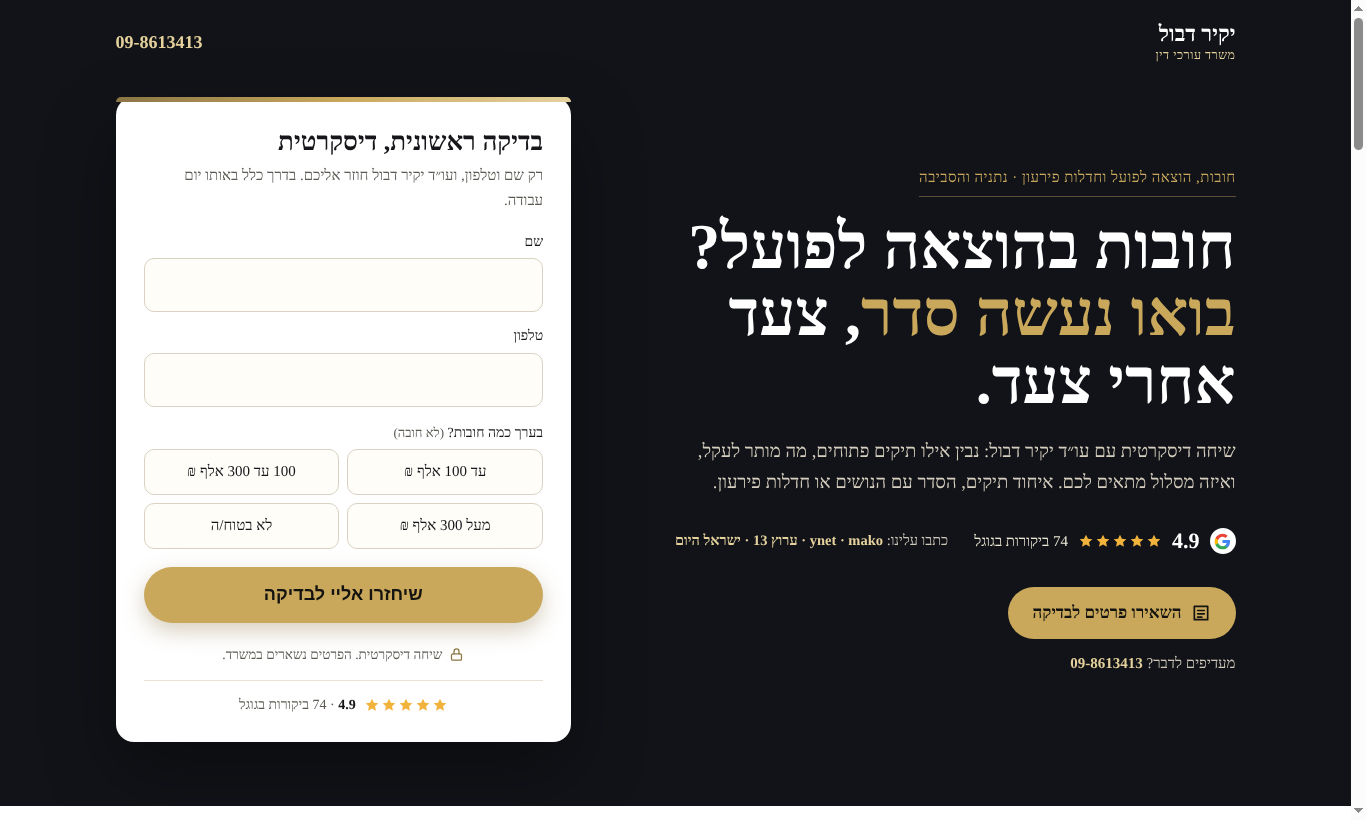
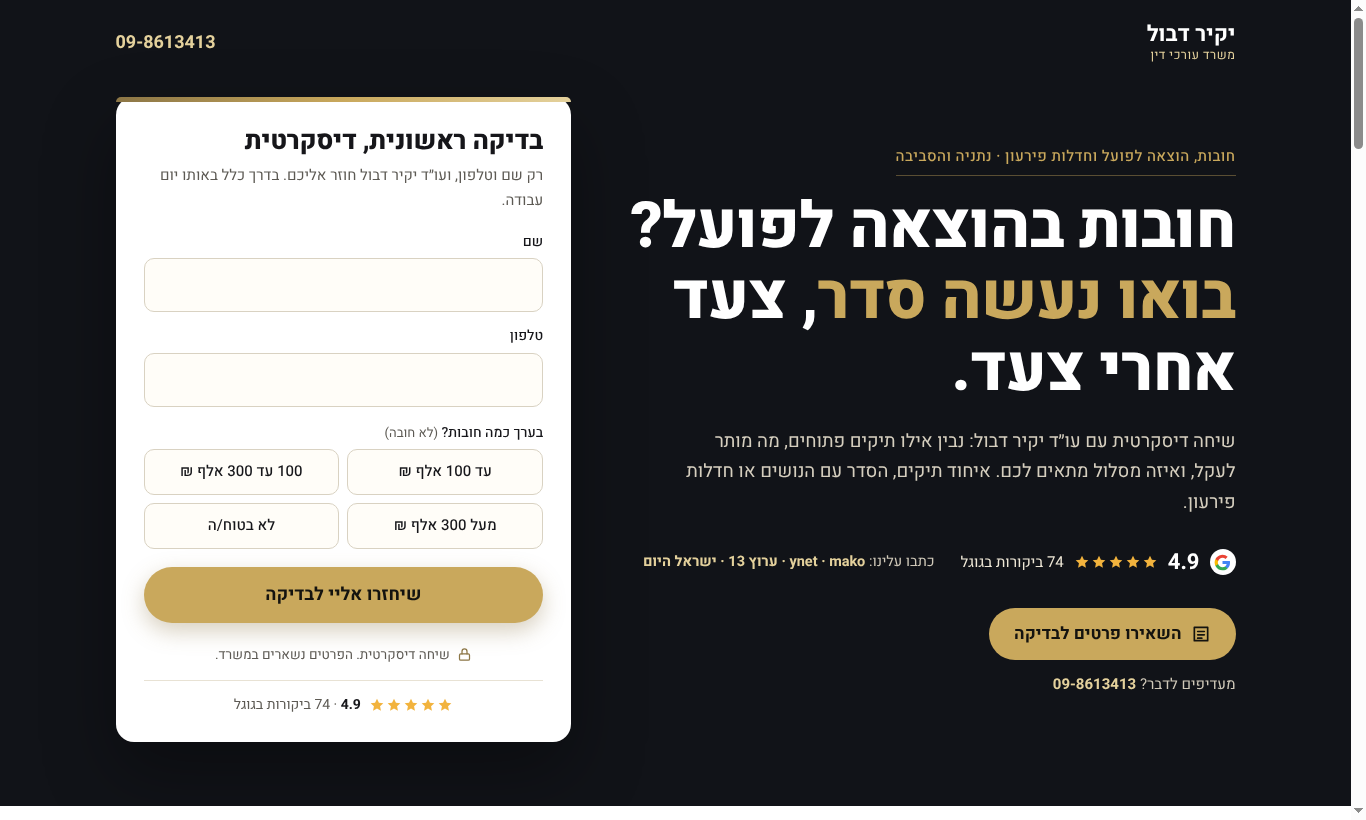
lp-debt v2 sketch: Heebo font like the Lovable site
Claude-Session: https://claude.ai/code/session_01R2PTbBSCdrkEqwtLk6qd2a

diff --git a/media/campaign/debt-2026-10/lp/v2/preview.html b/media/campaign/debt-2026-10/lp/v2/preview.html
@@ -1,12 +1,12 @@
-<!doctype html><html lang="he" dir="rtl"><head><meta charset="utf-8"><meta name="viewport" content="width=device-width,initial-scale=1"><title>lp-debt v2</title><style>body{margin:0}</style></head><body>
-<link rel="preconnect" href="https://fonts.gstatic.com" crossorigin><link rel="stylesheet" href="https://fonts.googleapis.com/css2?family=Frank+Ruhl+Libre:wght@500;700&display=swap">
+<!doctype html><html lang="he" dir="rtl"><head><meta charset="utf-8"><meta name="viewport" content="width=device-width,initial-scale=1"><title>lp-debt v2</title><style>body{margin:0}@font-face{font-family:'Heebo';font-weight:300;src:url('file:///tmp/claude-0/-home-claude/18c4b77b-4875-5419-b847-7a72812c5e0f/scratchpad/heebo/package/300Light/Heebo_300Light.ttf')}@font-face{font-family:'Heebo';font-weight:400;src:url('file:///tmp/claude-0/-home-claude/18c4b77b-4875-5419-b847-7a72812c5e0f/scratchpad/heebo/package/400Regular/Heebo_400Regular.ttf')}@font-face{font-family:'Heebo';font-weight:500;src:url('file:///tmp/claude-0/-home-claude/18c4b77b-4875-5419-b847-7a72812c5e0f/scratchpad/heebo/package/500Medium/Heebo_500Medium.ttf')}@font-face{font-family:'Heebo';font-weight:700;src:url('file:///tmp/claude-0/-home-claude/18c4b77b-4875-5419-b847-7a72812c5e0f/scratchpad/heebo/package/700Bold/Heebo_700Bold.ttf')}@font-face{font-family:'Heebo';font-weight:800;src:url('file:///tmp/claude-0/-home-claude/18c4b77b-4875-5419-b847-7a72812c5e0f/scratchpad/heebo/package/800ExtraBold/Heebo_800ExtraBold.ttf')}@font-face{font-family:'Heebo';font-weight:900;src:url('file:///tmp/claude-0/-home-claude/18c4b77b-4875-5419-b847-7a72812c5e0f/scratchpad/heebo/package/900Black/Heebo_900Black.ttf')}</style></head><body>
+<link rel="preconnect" href="https://fonts.gstatic.com" crossorigin><link rel="stylesheet" href="https://fonts.googleapis.com/css2?family=Heebo:wght@300;400;500;700;800;900&display=swap">
 <style>
 .dlp{--d:#111318;--d2:#1b1e26;--g:#c9a85c;--gd:#8c7646;--g1:#e4d19c;--g2:#f6efdd;--ink:#16161a;--mut:#5d5a54;--line:#e8e2d4;--paper:#fbfaf6;
- direction:rtl;color:var(--ink);background:var(--paper);font-size:17px;line-height:1.65;-webkit-font-smoothing:antialiased;overflow-x:clip}
+ direction:rtl;font-family:'Heebo',Arial,sans-serif;color:var(--ink);background:var(--paper);font-size:17px;line-height:1.65;-webkit-font-smoothing:antialiased;overflow-x:clip}
 .dlp *{box-sizing:border-box}
 .dlp h1,.dlp h2,.dlp h3,.dlp p,.dlp ul,.dlp ol{margin:0;padding:0}
 .dlp .w{max-width:1160px;margin:0 auto;padding-inline:20px}
-.dlp .serif{font-family:'Frank Ruhl Libre',Georgia,serif}
+.dlp .serif{font-family:'Heebo',Arial,sans-serif}
 .dlp a{color:inherit}
 .dlp .btn{display:inline-flex;align-items:center;justify-content:center;gap:9px;min-height:52px;padding:0 24px;border-radius:999px;font-weight:700;font-size:17px;text-decoration:none;border:1.5px solid transparent;cursor:pointer;transition:transform .15s,background .15s}
 .dlp .btn:hover{transform:translateY(-1px)}
@@ -20,11 +20,11 @@
 .dlp .hero:after{content:"";position:absolute;inset:0;background:linear-gradient(90deg,rgba(17,19,24,.55),rgba(17,19,24,.94) 62%);z-index:-1}
 .dlp .hero .w{display:grid;grid-template-columns:minmax(0,1.15fr) minmax(0,.85fr);gap:48px;align-items:center;padding-block:34px 64px}
 .dlp .top{display:flex;justify-content:space-between;align-items:center;padding-block:22px 0}
-.dlp .logo{font-family:'Frank Ruhl Libre',Georgia,serif;font-weight:700;font-size:22px;color:#fff;line-height:1.1;text-decoration:none}
+.dlp .logo{font-family:'Heebo',Arial,sans-serif;font-weight:700;font-size:22px;color:#fff;line-height:1.1;text-decoration:none}
 .dlp .logo small{display:block;font-family:inherit;font-weight:400;font-size:12.5px;color:var(--g1);letter-spacing:.04em;margin-top:3px}
 .dlp .top .tel{color:var(--g1);font-weight:700;text-decoration:none;direction:ltr;font-size:18px}
 .dlp .kick{display:inline-block;color:var(--g);font-weight:500;font-size:15px;letter-spacing:.03em;margin-bottom:16px;border-bottom:1px solid rgba(201,168,92,.4);padding-bottom:6px}
-.dlp h1{font-family:'Frank Ruhl Libre',Georgia,serif;font-weight:700;font-size:clamp(38px,5.4vw,64px);line-height:1.06;color:#fff;text-wrap:balance}
+.dlp h1{font-family:'Heebo',Arial,sans-serif;font-weight:700;font-size:clamp(38px,5.4vw,64px);line-height:1.06;color:#fff;text-wrap:balance}
 .dlp h1 em{font-style:normal;color:var(--g)}
 .dlp .sub{font-size:18.5px;color:#d6cfbf;max-width:560px;margin-top:20px;font-weight:300}
 .dlp .ctas{display:flex;flex-wrap:wrap;gap:12px;margin-top:28px}
@@ -34,7 +34,7 @@
 /* form */
 .dlp .fc{background:#fff;color:var(--ink);border-radius:18px;padding:30px 28px 26px;box-shadow:0 30px 70px rgba(0,0,0,.35);position:relative}
 .dlp .fc:before{content:"";position:absolute;inset:0 0 auto 0;height:5px;border-radius:18px 18px 0 0;background:linear-gradient(90deg,var(--gd),var(--g),var(--g1))}
-.dlp .fc h2{font-family:'Frank Ruhl Libre',Georgia,serif;font-size:26px;line-height:1.15;font-weight:700}
+.dlp .fc h2{font-family:'Heebo',Arial,sans-serif;font-size:26px;line-height:1.15;font-weight:700}
 .dlp .fc .fs{font-size:15px;color:var(--mut);margin:6px 0 18px}
 .dlp .fc label{display:block;font-size:14px;font-weight:500;margin:12px 0 5px}
 .dlp .fc input,.dlp .fc select,.dlp .fc textarea{width:100%;font:inherit;font-size:17px;padding:12px 14px;border:1.5px solid #d9d2c2;border-radius:10px;background:#fffdf8;color:var(--ink)}
@@ -49,30 +49,30 @@
 .dlp .fc .note{font-size:12.5px;color:var(--mut);margin-top:12px;line-height:1.5}
 .dlp .fc .msg{font-size:14px;color:#a3322a;margin-top:8px;min-height:1px}
 .dlp .fc .ok{text-align:center;padding:26px 6px}
-.dlp .fc .ok b{display:block;font-family:'Frank Ruhl Libre',Georgia,serif;font-size:26px;margin-bottom:8px}
+.dlp .fc .ok b{display:block;font-family:'Heebo',Arial,sans-serif;font-size:26px;margin-bottom:8px}
 .dlp .hp{position:absolute!important;left:-9999px!important}
 /* trust */
 .dlp .trust{background:var(--d2);color:#eee7d6;border-top:1px solid rgba(201,168,92,.25)}
 .dlp .trust .w{display:grid;grid-template-columns:repeat(4,minmax(0,1fr));gap:0}
 .dlp .trust div{padding:22px 18px;border-inline-start:1px solid rgba(201,168,92,.18)}
 .dlp .trust div:first-child{border-inline-start:0}
-.dlp .trust b{display:block;font-family:'Frank Ruhl Libre',Georgia,serif;font-size:26px;color:var(--g);line-height:1.1}
+.dlp .trust b{display:block;font-family:'Heebo',Arial,sans-serif;font-size:26px;color:var(--g);line-height:1.1}
 .dlp .trust span{font-size:14.5px;color:#cfc8b8}
 /* sections */
 .dlp section.s{padding-block:76px}
-.dlp .st{font-family:'Frank Ruhl Libre',Georgia,serif;font-size:clamp(30px,3.6vw,42px);line-height:1.12;font-weight:700;text-wrap:balance}
+.dlp .st{font-family:'Heebo',Arial,sans-serif;font-size:clamp(30px,3.6vw,42px);line-height:1.12;font-weight:700;text-wrap:balance}
 .dlp .ss{color:var(--mut);font-size:18px;margin-top:10px;max-width:640px}
 .dlp .eyebrow{color:var(--gd);font-weight:700;font-size:14px;letter-spacing:.06em;margin-bottom:10px}
 .dlp .risks{display:grid;grid-template-columns:repeat(4,minmax(0,1fr));gap:18px;margin-top:36px}
 .dlp .risk{background:#fff;border:1px solid var(--line);border-radius:14px;padding:24px 22px;position:relative}
-.dlp .risk .n{font-family:'Frank Ruhl Libre',Georgia,serif;font-size:15px;font-weight:700;color:var(--gd);width:34px;height:34px;border:1.5px solid var(--g);border-radius:50%;display:grid;place-items:center;margin-bottom:14px}
+.dlp .risk .n{font-family:'Heebo',Arial,sans-serif;font-size:15px;font-weight:700;color:var(--gd);width:34px;height:34px;border:1.5px solid var(--g);border-radius:50%;display:grid;place-items:center;margin-bottom:14px}
 .dlp .risk h3{font-size:19px;line-height:1.3;margin-bottom:6px}
 .dlp .risk p{font-size:15.5px;color:#45433d}
 /* steps */
 .dlp .steps-s{background:var(--g2)}
 .dlp .steps{list-style:none;margin-top:38px;display:grid;grid-template-columns:repeat(5,minmax(0,1fr));gap:0;counter-reset:s}
 .dlp .steps li{position:relative;padding:0 0 0 22px;counter-increment:s}
-.dlp .steps li:before{content:counter(s);display:grid;place-items:center;width:46px;height:46px;border-radius:50%;background:var(--d);color:var(--g);font-family:'Frank Ruhl Libre',Georgia,serif;font-weight:700;font-size:20px;position:relative;z-index:1;margin-bottom:16px}
+.dlp .steps li:before{content:counter(s);display:grid;place-items:center;width:46px;height:46px;border-radius:50%;background:var(--d);color:var(--g);font-family:'Heebo',Arial,sans-serif;font-weight:700;font-size:20px;position:relative;z-index:1;margin-bottom:16px}
 .dlp .steps li:after{content:"";position:absolute;top:23px;right:46px;left:-0px;height:2px;background:linear-gradient(90deg,var(--g1),var(--g))}
 .dlp .steps li:last-child:after{display:none}
 .dlp .steps h3{font-size:18.5px;line-height:1.3;margin-bottom:6px}
@@ -86,7 +86,7 @@
 .dlp .about .ph{align-self:stretch;background:linear-gradient(180deg,#232733,#111318);display:flex;align-items:flex-end;justify-content:center;padding-top:22px}
 .dlp .about .ph img{width:100%;max-width:200px;height:auto;display:block}
 .dlp .about .tx{padding:28px 28px 26px}
-.dlp .about h3{font-family:'Frank Ruhl Libre',Georgia,serif;font-size:26px;color:#fff;line-height:1.15}
+.dlp .about h3{font-family:'Heebo',Arial,sans-serif;font-size:26px;color:#fff;line-height:1.15}
 .dlp .about .role{color:var(--g1);font-size:14.5px;margin:4px 0 12px}
 .dlp .about p{font-size:15.5px;color:#cfc8b8}
 .dlp .about ul{list-style:none;margin-top:14px;display:grid;gap:7px;font-size:14.5px}
@@ -103,7 +103,7 @@
 .dlp .faq details{border-bottom:1px solid var(--line)}
 .dlp .faq summary{list-style:none;cursor:pointer;padding:20px 0;font-weight:700;font-size:18.5px;display:flex;justify-content:space-between;gap:16px;align-items:center}
 .dlp .faq summary::-webkit-details-marker{display:none}
-.dlp .faq summary:after{content:"+";font-family:'Frank Ruhl Libre',Georgia,serif;font-size:28px;color:var(--g);line-height:1;transition:transform .2s}
+.dlp .faq summary:after{content:"+";font-family:'Heebo',Arial,sans-serif;font-size:28px;color:var(--g);line-height:1;transition:transform .2s}
 .dlp .faq details[open] summary:after{transform:rotate(45deg)}
 .dlp .faq p{padding:0 0 20px;color:#45433d;max-width:760px}
 /* final */
@@ -167,7 +167,7 @@
 /* hero social proof */
 .dlp .hp-proof{display:flex;flex-wrap:wrap;gap:12px 26px;margin-top:26px;align-items:center}
 .dlp .hp-proof .rt{display:flex;gap:10px;align-items:center;color:#eee7d6;font-size:15px}
-.dlp .hp-proof .rt b{font-size:22px;color:#fff;font-family:'Frank Ruhl Libre',Georgia,serif}
+.dlp .hp-proof .rt b{font-size:22px;color:#fff;font-family:'Heebo',Arial,sans-serif}
 .dlp .hp-proof .gi{width:26px;height:26px;background:#fff;border-radius:50%;display:grid;place-items:center}
 .dlp .hp-proof .gi svg{width:17px;height:17px}
 .dlp .hp-proof .tv{font-size:14.5px;color:#cfc8b8}
@@ -190,7 +190,7 @@
 .dlp .rv-s{background:var(--g2)}
 .dlp .rv-head{display:flex;gap:20px 40px;align-items:end;justify-content:space-between;flex-wrap:wrap}
 .dlp .rv-score{display:flex;gap:14px;align-items:center;background:#fff;border:1px solid var(--line);border-radius:14px;padding:14px 18px}
-.dlp .rv-score .big{font-family:'Frank Ruhl Libre',Georgia,serif;font-size:42px;font-weight:700;line-height:1}
+.dlp .rv-score .big{font-family:'Heebo',Arial,sans-serif;font-size:42px;font-weight:700;line-height:1}
 .dlp .rv-score small{display:block;color:var(--mut);font-size:13.5px;margin-top:2px}
 .dlp .rv-score .gi{width:34px;height:34px}
 .dlp .rv-score .gi svg{width:34px;height:34px}
@@ -198,7 +198,7 @@
 .dlp .rv{margin:0;background:#fff;border:1px solid var(--line);border-radius:14px;padding:20px 20px 18px;display:flex;flex-direction:column;gap:12px}
 .dlp .rv q{font-size:16px;line-height:1.6;quotes:"״" "״";flex:1}
 .dlp .rv .who{display:flex;gap:10px;align-items:center;font-size:14.5px;font-weight:700}
-.dlp .rv .av{width:36px;height:36px;border-radius:50%;background:var(--d);color:var(--g);display:grid;place-items:center;font-family:'Frank Ruhl Libre',Georgia,serif;font-size:17px;flex:none}
+.dlp .rv .av{width:36px;height:36px;border-radius:50%;background:var(--d);color:var(--g);display:grid;place-items:center;font-family:'Heebo',Arial,sans-serif;font-size:17px;flex:none}
 .dlp .rv .who small{display:block;font-weight:400;color:var(--mut);font-size:12.5px}
 .dlp .rv-more{margin-top:20px;font-size:15px}
 .dlp .rv-more a{color:var(--gd);font-weight:700}
@@ -246,6 +246,13 @@
  .dlp .bar a.m{flex-direction:row;gap:8px;font-size:16px;min-height:48px;justify-content:center}
  .dlp .bar a.t{justify-content:center;border:1px solid rgba(201,168,92,.45)}
 }
+
+/* Heebo weights (21.10.2026) */
+.dlp h1{font-weight:800;letter-spacing:-.01em;line-height:1.12}
+.dlp .st,.dlp .fc h2{font-weight:800;letter-spacing:-.01em}
+.dlp .sub{font-weight:400}
+.dlp .btn,.dlp .fc .go{font-weight:700}
+.dlp input,.dlp select,.dlp textarea,.dlp button{font-family:'Heebo',Arial,sans-serif}
 </style>
 <div class="dlp">
 <header class="hero"><div class="w top" style="display:flex;padding-block:22px 0"><a class="logo" href="https://dabullaw.co.il/">יקיר דבול<small>משרד עורכי דין</small></a><a class="tel" href="tel:+97298613413">09-8613413</a></div>

diff --git a/media/campaign/debt-2026-10/lp/v2/live-after.html b/media/campaign/debt-2026-10/lp/v2/live-after.html
@@ -1,12 +1,12 @@
 <!-- wp:html -->
-<link rel="preconnect" href="https://fonts.gstatic.com" crossorigin><link rel="stylesheet" href="https://fonts.googleapis.com/css2?family=Frank+Ruhl+Libre:wght@500;700&display=swap">
+<link rel="preconnect" href="https://fonts.gstatic.com" crossorigin><link rel="stylesheet" href="https://fonts.googleapis.com/css2?family=Heebo:wght@300;400;500;700;800;900&display=swap">
 <style>
 .dlp{--d:#111318;--d2:#1b1e26;--g:#c9a85c;--gd:#8c7646;--g1:#e4d19c;--g2:#f6efdd;--ink:#16161a;--mut:#5d5a54;--line:#e8e2d4;--paper:#fbfaf6;
- direction:rtl;color:var(--ink);background:var(--paper);font-size:17px;line-height:1.65;-webkit-font-smoothing:antialiased;overflow-x:clip}
+ direction:rtl;font-family:'Heebo',Arial,sans-serif;color:var(--ink);background:var(--paper);font-size:17px;line-height:1.65;-webkit-font-smoothing:antialiased;overflow-x:clip}
 .dlp *{box-sizing:border-box}
 .dlp h1,.dlp h2,.dlp h3,.dlp p,.dlp ul,.dlp ol{margin:0;padding:0}
 .dlp .w{max-width:1160px;margin:0 auto;padding-inline:20px}
-.dlp .serif{font-family:'Frank Ruhl Libre',Georgia,serif}
+.dlp .serif{font-family:'Heebo',Arial,sans-serif}
 .dlp a{color:inherit}
 .dlp .btn{display:inline-flex;align-items:center;justify-content:center;gap:9px;min-height:52px;padding:0 24px;border-radius:999px;font-weight:700;font-size:17px;text-decoration:none;border:1.5px solid transparent;cursor:pointer;transition:transform .15s,background .15s}
 .dlp .btn:hover{transform:translateY(-1px)}
@@ -20,11 +20,11 @@
 .dlp .hero:after{content:"";position:absolute;inset:0;background:linear-gradient(90deg,rgba(17,19,24,.55),rgba(17,19,24,.94) 62%);z-index:-1}
 .dlp .hero .w{display:grid;grid-template-columns:minmax(0,1.15fr) minmax(0,.85fr);gap:48px;align-items:center;padding-block:34px 64px}
 .dlp .top{display:flex;justify-content:space-between;align-items:center;padding-block:22px 0}
-.dlp .logo{font-family:'Frank Ruhl Libre',Georgia,serif;font-weight:700;font-size:22px;color:#fff;line-height:1.1;text-decoration:none}
+.dlp .logo{font-family:'Heebo',Arial,sans-serif;font-weight:700;font-size:22px;color:#fff;line-height:1.1;text-decoration:none}
 .dlp .logo small{display:block;font-family:inherit;font-weight:400;font-size:12.5px;color:var(--g1);letter-spacing:.04em;margin-top:3px}
 .dlp .top .tel{color:var(--g1);font-weight:700;text-decoration:none;direction:ltr;font-size:18px}
 .dlp .kick{display:inline-block;color:var(--g);font-weight:500;font-size:15px;letter-spacing:.03em;margin-bottom:16px;border-bottom:1px solid rgba(201,168,92,.4);padding-bottom:6px}
-.dlp h1{font-family:'Frank Ruhl Libre',Georgia,serif;font-weight:700;font-size:clamp(38px,5.4vw,64px);line-height:1.06;color:#fff;text-wrap:balance}
+.dlp h1{font-family:'Heebo',Arial,sans-serif;font-weight:700;font-size:clamp(38px,5.4vw,64px);line-height:1.06;color:#fff;text-wrap:balance}
 .dlp h1 em{font-style:normal;color:var(--g)}
 .dlp .sub{font-size:18.5px;color:#d6cfbf;max-width:560px;margin-top:20px;font-weight:300}
 .dlp .ctas{display:flex;flex-wrap:wrap;gap:12px;margin-top:28px}
@@ -34,7 +34,7 @@
 /* form */
 .dlp .fc{background:#fff;color:var(--ink);border-radius:18px;padding:30px 28px 26px;box-shadow:0 30px 70px rgba(0,0,0,.35);position:relative}
 .dlp .fc:before{content:"";position:absolute;inset:0 0 auto 0;height:5px;border-radius:18px 18px 0 0;background:linear-gradient(90deg,var(--gd),var(--g),var(--g1))}
-.dlp .fc h2{font-family:'Frank Ruhl Libre',Georgia,serif;font-size:26px;line-height:1.15;font-weight:700}
+.dlp .fc h2{font-family:'Heebo',Arial,sans-serif;font-size:26px;line-height:1.15;font-weight:700}
 .dlp .fc .fs{font-size:15px;color:var(--mut);margin:6px 0 18px}
 .dlp .fc label{display:block;font-size:14px;font-weight:500;margin:12px 0 5px}
 .dlp .fc input,.dlp .fc select,.dlp .fc textarea{width:100%;font:inherit;font-size:17px;padding:12px 14px;border:1.5px solid #d9d2c2;border-radius:10px;background:#fffdf8;color:var(--ink)}
@@ -49,30 +49,30 @@
 .dlp .fc .note{font-size:12.5px;color:var(--mut);margin-top:12px;line-height:1.5}
 .dlp .fc .msg{font-size:14px;color:#a3322a;margin-top:8px;min-height:1px}
 .dlp .fc .ok{text-align:center;padding:26px 6px}
-.dlp .fc .ok b{display:block;font-family:'Frank Ruhl Libre',Georgia,serif;font-size:26px;margin-bottom:8px}
+.dlp .fc .ok b{display:block;font-family:'Heebo',Arial,sans-serif;font-size:26px;margin-bottom:8px}
 .dlp .hp{position:absolute!important;left:-9999px!important}
 /* trust */
 .dlp .trust{background:var(--d2);color:#eee7d6;border-top:1px solid rgba(201,168,92,.25)}
 .dlp .trust .w{display:grid;grid-template-columns:repeat(4,minmax(0,1fr));gap:0}
 .dlp .trust div{padding:22px 18px;border-inline-start:1px solid rgba(201,168,92,.18)}
 .dlp .trust div:first-child{border-inline-start:0}
-.dlp .trust b{display:block;font-family:'Frank Ruhl Libre',Georgia,serif;font-size:26px;color:var(--g);line-height:1.1}
+.dlp .trust b{display:block;font-family:'Heebo',Arial,sans-serif;font-size:26px;color:var(--g);line-height:1.1}
 .dlp .trust span{font-size:14.5px;color:#cfc8b8}
 /* sections */
 .dlp section.s{padding-block:76px}
-.dlp .st{font-family:'Frank Ruhl Libre',Georgia,serif;font-size:clamp(30px,3.6vw,42px);line-height:1.12;font-weight:700;text-wrap:balance}
+.dlp .st{font-family:'Heebo',Arial,sans-serif;font-size:clamp(30px,3.6vw,42px);line-height:1.12;font-weight:700;text-wrap:balance}
 .dlp .ss{color:var(--mut);font-size:18px;margin-top:10px;max-width:640px}
 .dlp .eyebrow{color:var(--gd);font-weight:700;font-size:14px;letter-spacing:.06em;margin-bottom:10px}
 .dlp .risks{display:grid;grid-template-columns:repeat(4,minmax(0,1fr));gap:18px;margin-top:36px}
 .dlp .risk{background:#fff;border:1px solid var(--line);border-radius:14px;padding:24px 22px;position:relative}
-.dlp .risk .n{font-family:'Frank Ruhl Libre',Georgia,serif;font-size:15px;font-weight:700;color:var(--gd);width:34px;height:34px;border:1.5px solid var(--g);border-radius:50%;display:grid;place-items:center;margin-bottom:14px}
+.dlp .risk .n{font-family:'Heebo',Arial,sans-serif;font-size:15px;font-weight:700;color:var(--gd);width:34px;height:34px;border:1.5px solid var(--g);border-radius:50%;display:grid;place-items:center;margin-bottom:14px}
 .dlp .risk h3{font-size:19px;line-height:1.3;margin-bottom:6px}
 .dlp .risk p{font-size:15.5px;color:#45433d}
 /* steps */
 .dlp .steps-s{background:var(--g2)}
 .dlp .steps{list-style:none;margin-top:38px;display:grid;grid-template-columns:repeat(5,minmax(0,1fr));gap:0;counter-reset:s}
 .dlp .steps li{position:relative;padding:0 0 0 22px;counter-increment:s}
-.dlp .steps li:before{content:counter(s);display:grid;place-items:center;width:46px;height:46px;border-radius:50%;background:var(--d);color:var(--g);font-family:'Frank Ruhl Libre',Georgia,serif;font-weight:700;font-size:20px;position:relative;z-index:1;margin-bottom:16px}
+.dlp .steps li:before{content:counter(s);display:grid;place-items:center;width:46px;height:46px;border-radius:50%;background:var(--d);color:var(--g);font-family:'Heebo',Arial,sans-serif;font-weight:700;font-size:20px;position:relative;z-index:1;margin-bottom:16px}
 .dlp .steps li:after{content:"";position:absolute;top:23px;right:46px;left:-0px;height:2px;background:linear-gradient(90deg,var(--g1),var(--g))}
 .dlp .steps li:last-child:after{display:none}
 .dlp .steps h3{font-size:18.5px;line-height:1.3;margin-bottom:6px}
@@ -86,7 +86,7 @@
 .dlp .about .ph{align-self:stretch;background:linear-gradient(180deg,#232733,#111318);display:flex;align-items:flex-end;justify-content:center;padding-top:22px}
 .dlp .about .ph img{width:100%;max-width:200px;height:auto;display:block}
 .dlp .about .tx{padding:28px 28px 26px}
-.dlp .about h3{font-family:'Frank Ruhl Libre',Georgia,serif;font-size:26px;color:#fff;line-height:1.15}
+.dlp .about h3{font-family:'Heebo',Arial,sans-serif;font-size:26px;color:#fff;line-height:1.15}
 .dlp .about .role{color:var(--g1);font-size:14.5px;margin:4px 0 12px}
 .dlp .about p{font-size:15.5px;color:#cfc8b8}
 .dlp .about ul{list-style:none;margin-top:14px;display:grid;gap:7px;font-size:14.5px}
@@ -103,7 +103,7 @@
 .dlp .faq details{border-bottom:1px solid var(--line)}
 .dlp .faq summary{list-style:none;cursor:pointer;padding:20px 0;font-weight:700;font-size:18.5px;display:flex;justify-content:space-between;gap:16px;align-items:center}
 .dlp .faq summary::-webkit-details-marker{display:none}
-.dlp .faq summary:after{content:"+";font-family:'Frank Ruhl Libre',Georgia,serif;font-size:28px;color:var(--g);line-height:1;transition:transform .2s}
+.dlp .faq summary:after{content:"+";font-family:'Heebo',Arial,sans-serif;font-size:28px;color:var(--g);line-height:1;transition:transform .2s}
 .dlp .faq details[open] summary:after{transform:rotate(45deg)}
 .dlp .faq p{padding:0 0 20px;color:#45433d;max-width:760px}
 /* final */
@@ -167,7 +167,7 @@
 /* hero social proof */
 .dlp .hp-proof{display:flex;flex-wrap:wrap;gap:12px 26px;margin-top:26px;align-items:center}
 .dlp .hp-proof .rt{display:flex;gap:10px;align-items:center;color:#eee7d6;font-size:15px}
-.dlp .hp-proof .rt b{font-size:22px;color:#fff;font-family:'Frank Ruhl Libre',Georgia,serif}
+.dlp .hp-proof .rt b{font-size:22px;color:#fff;font-family:'Heebo',Arial,sans-serif}
 .dlp .hp-proof .gi{width:26px;height:26px;background:#fff;border-radius:50%;display:grid;place-items:center}
 .dlp .hp-proof .gi svg{width:17px;height:17px}
 .dlp .hp-proof .tv{font-size:14.5px;color:#cfc8b8}
@@ -190,7 +190,7 @@
 .dlp .rv-s{background:var(--g2)}
 .dlp .rv-head{display:flex;gap:20px 40px;align-items:end;justify-content:space-between;flex-wrap:wrap}
 .dlp .rv-score{display:flex;gap:14px;align-items:center;background:#fff;border:1px solid var(--line);border-radius:14px;padding:14px 18px}
-.dlp .rv-score .big{font-family:'Frank Ruhl Libre',Georgia,serif;font-size:42px;font-weight:700;line-height:1}
+.dlp .rv-score .big{font-family:'Heebo',Arial,sans-serif;font-size:42px;font-weight:700;line-height:1}
 .dlp .rv-score small{display:block;color:var(--mut);font-size:13.5px;margin-top:2px}
 .dlp .rv-score .gi{width:34px;height:34px}
 .dlp .rv-score .gi svg{width:34px;height:34px}
@@ -198,7 +198,7 @@
 .dlp .rv{margin:0;background:#fff;border:1px solid var(--line);border-radius:14px;padding:20px 20px 18px;display:flex;flex-direction:column;gap:12px}
 .dlp .rv q{font-size:16px;line-height:1.6;quotes:"״" "״";flex:1}
 .dlp .rv .who{display:flex;gap:10px;align-items:center;font-size:14.5px;font-weight:700}
-.dlp .rv .av{width:36px;height:36px;border-radius:50%;background:var(--d);color:var(--g);display:grid;place-items:center;font-family:'Frank Ruhl Libre',Georgia,serif;font-size:17px;flex:none}
+.dlp .rv .av{width:36px;height:36px;border-radius:50%;background:var(--d);color:var(--g);display:grid;place-items:center;font-family:'Heebo',Arial,sans-serif;font-size:17px;flex:none}
 .dlp .rv .who small{display:block;font-weight:400;color:var(--mut);font-size:12.5px}
 .dlp .rv-more{margin-top:20px;font-size:15px}
 .dlp .rv-more a{color:var(--gd);font-weight:700}
@@ -246,6 +246,13 @@
  .dlp .bar a.m{flex-direction:row;gap:8px;font-size:16px;min-height:48px;justify-content:center}
  .dlp .bar a.t{justify-content:center;border:1px solid rgba(201,168,92,.45)}
 }
+
+/* Heebo weights (21.10.2026) */
+.dlp h1{font-weight:800;letter-spacing:-.01em;line-height:1.12}
+.dlp .st,.dlp .fc h2{font-weight:800;letter-spacing:-.01em}
+.dlp .sub{font-weight:400}
+.dlp .btn,.dlp .fc .go{font-weight:700}
+.dlp input,.dlp select,.dlp textarea,.dlp button{font-family:'Heebo',Arial,sans-serif}
 </style>
 <div class="dlp">
 <header class="hero"><div class="w top" style="display:flex;padding-block:22px 0"><a class="logo" href="https://dabullaw.co.il/">יקיר דבול<small>משרד עורכי דין</small></a><a class="tel" href="tel:+97298613413">09-8613413</a></div>

diff --git a/media/campaign/debt-2026-10/lp/v2/make_v2.py b/media/campaign/debt-2026-10/lp/v2/make_v2.py
@@ -71,7 +71,28 @@ r = sub1("var m=f.querySelector('.msg'),b=f.querySelector('.go'),g=function(n){v
 r = sub1(",notes:'מצב: '+g('status')};", ",notes:g('debt_range')?'גובה חובות: '+g('debt_range'):'השאיר שם וטלפון בלבד'};", r)
 # note: the form posts to the same office lead function, with the same Lead event and value as before
 
+# 6) font (Yakir 21.10: "הפונט מזעזע", like his Lovable site): Heebo everywhere instead of Frank Ruhl Libre + the theme font
+r = sub1('<link rel="stylesheet" href="https://fonts.googleapis.com/css2?family=Frank+Ruhl+Libre:wght@500;700&display=swap">',
+         '<link rel="stylesheet" href="https://fonts.googleapis.com/css2?family=Heebo:wght@300;400;500;700;800;900&display=swap">', r)
+fr = r.count("'Frank Ruhl Libre',Georgia,serif")
+r = r.replace("'Frank Ruhl Libre',Georgia,serif", "'Heebo',Arial,sans-serif")
+if 'Frank Ruhl' in r: sys.exit('Frank Ruhl left')
+r = sub1('direction:rtl;color:var(--ink);background:var(--paper);', "direction:rtl;font-family:'Heebo',Arial,sans-serif;color:var(--ink);background:var(--paper);", r)
+FONT_CSS = '''
+/* Heebo weights (21.10.2026) */
+.dlp h1{font-weight:800;letter-spacing:-.01em;line-height:1.12}
+.dlp .st,.dlp .fc h2{font-weight:800;letter-spacing:-.01em}
+.dlp .sub{font-weight:400}
+.dlp .btn,.dlp .fc .go{font-weight:700}
+.dlp input,.dlp select,.dlp textarea,.dlp button{font-family:'Heebo',Arial,sans-serif}
+</style>'''
+k = r.index('</style>')
+r = r[:k] + FONT_CSS + r[k + len('</style>'):]
+print('serif uses replaced:', fr)
+
 open('live-after.html', 'w', encoding='utf-8').write(r)
 body = r.replace('<!-- wp:html -->', '').replace('<!-- /wp:html -->', '')
-open('preview.html', 'w', encoding='utf-8').write('<!doctype html><html lang="he" dir="rtl"><head><meta charset="utf-8"><meta name="viewport" content="width=device-width,initial-scale=1"><title>lp-debt v2</title><style>body{margin:0}</style></head><body>' + body + '</body></html>')
+# the sketch loads Heebo from local files (this computer cannot reach Google Fonts); the live page loads it from Google
+LOCAL = ''.join(f"@font-face{{font-family:'Heebo';font-weight:{w};src:url('file://{FD}/{w}{n}/Heebo_{w}{n}.ttf')}}" for w, n in [(300, 'Light'), (400, 'Regular'), (500, 'Medium'), (700, 'Bold'), (800, 'ExtraBold'), (900, 'Black')]) if (FD := '/tmp/claude-0/-home-claude/18c4b77b-4875-5419-b847-7a72812c5e0f/scratchpad/heebo/package') else ''
+open('preview.html', 'w', encoding='utf-8').write('<!doctype html><html lang="he" dir="rtl"><head><meta charset="utf-8"><meta name="viewport" content="width=device-width,initial-scale=1"><title>lp-debt v2</title><style>body{margin:0}' + LOCAL + '</style></head><body>' + body + '</body></html>')
 print('ok', n0, len(r))
